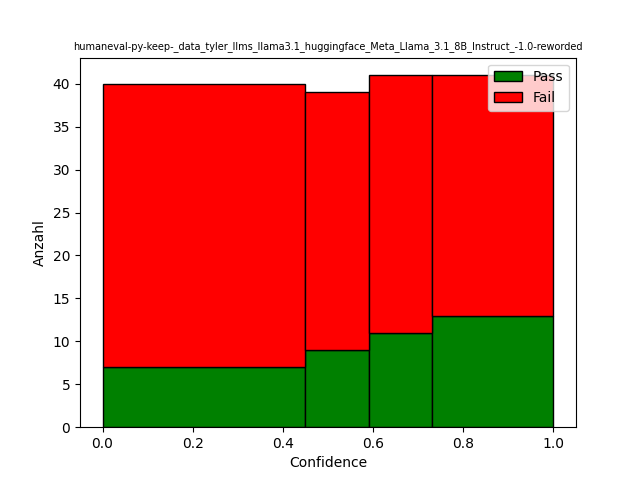
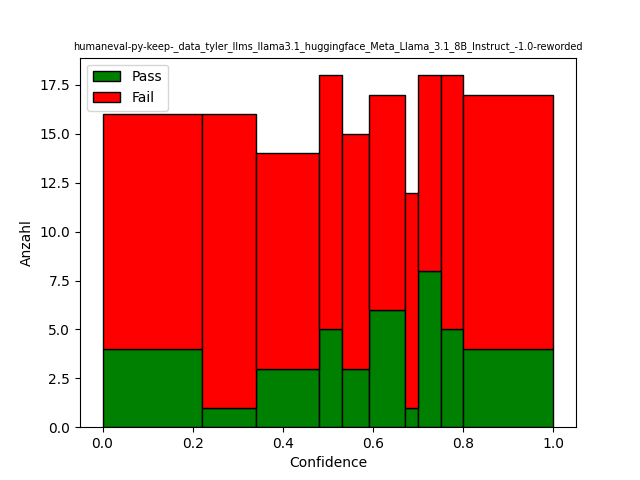
First implementation of Histogramm Binning, Changed quantil count in calculate_scores.py from 4 to 10

diff --git a/histogramm_binning.py b/histogramm_binning.py
@@ -7,10 +7,26 @@ from pathlib import Path
 import gzip
 from typing import Optional
 import os
+from sklearn.model_selection import train_test_split
+import matplotlib.pyplot as plt
 
 BASE_DIR    = "/data/stud/2025-MA-kuschnereit/masterarbeit/"
+CHART_DIR = BASE_DIR+"charts_multipl_e/"
 
 binning_type = 'linear'
+
+DEBUG = False
+
+def generate_calibration_bar_chart(y, x, path, run, width, bar_colors="blue"):
+    plt.title(run+' # Reliability chart', fontsize=7)
+    plt.plot(y, x, color=bar_colors)
+    plt.plot([0, 1], [0, 1], linestyle='--')
+    plt.xticks(np.arange(0, 1.1, 0.1))
+    plt.yticks(np.arange(0, 1.1, 0.1))
+    plt.xlabel('Confidence')
+    plt.ylabel('Correct')
+    plt.savefig(path)
+    plt.close()
 
 def gunzip_json(path: Path) -> Optional[dict]:
     """
@@ -54,6 +70,24 @@ def for_file(path: Path):
     }
 
 
+def create_unform_grid(m):
+    return np.round(np.arange(0.0, 1+(1/m), 1/m), 2)   
+
+
+def round_model_to_grid(probs, grid):
+    # Round model to the grid (assign values to bin edges)
+    bin_assignment = []    
+
+    for f_x in probs:             
+        bin_assignment.append(np.round(grid[np.argmin(np.abs(f_x - grid))], 2))         
+    
+    return np.array(bin_assignment)
+
+def calculate_correctnes_per_bin(probs, y, assignments, grid):
+    prob_correct = np.array([np.divide(len(probs[(assignments == i) & (y == 1)]), len(probs[(assignments == i)])) for i in grid])
+    prob_correct[np.isnan(prob_correct)] = 0
+    return prob_correct
+
 def main():
     parser = argparse.ArgumentParser()
     parser.add_argument(
@@ -82,9 +116,9 @@ def main():
         print(f"Temperature: {temperature}")
         print(f"Num Problems: {num_problems}")
 
-        pass_log_value_list = []
-        fail_log_value_list = []
-        prob_value_list = []
+        pass_probs = []
+        fail_probs = []
+        predicted_probs = []
         is_correct = []
 
         for r in results:
@@ -92,33 +126,55 @@ def main():
             cumulative_logprob = r["cumulative_logprob"]
             avg_prob = np.round(np.exp(cumulative_logprob / token_count), 2) 
 
-            prob_value_list.append(avg_prob)
+            predicted_probs.append(avg_prob)
             if r["c"] == 0:
-                fail_log_value_list.append(avg_prob)
+                fail_probs.append(avg_prob)
                 is_correct.append(0)
             if r["c"] == 1:
-                pass_log_value_list.append(avg_prob)
+                pass_probs.append(avg_prob)
                 is_correct.append(1)
 
-        prob_value_list     = np.array(prob_value_list)
-        pass_log_value_list = np.array(pass_log_value_list)
-        fail_log_value_list = np.array(fail_log_value_list)
+        predicted_probs     = np.array(predicted_probs)
+        pass_probs          = np.array(pass_probs)
+        fail_probs          = np.array(fail_probs)
         is_correct          = np.array(is_correct)
         correct_count = np.count_nonzero(is_correct == 1)
-        print(f"Korrekt: {correct_count}")
+        if DEBUG: print(f"Korrekt: {correct_count}") 
+
+        # Split in train and test
+        train_probs, test_probs, train_y, test_y = train_test_split(predicted_probs, is_correct, test_size=0.2)
+        if DEBUG: print(f"Training values: {train_probs}")
+        if DEBUG: print(f"Test values: {test_probs}")
 
         # uniform grid 1/m
-        m = 10
-        uniform_grid = np.arange(0.0, 1+(1/m), 1/m)         
-        bin_assignment = []         
-        
-        for f_x in prob_value_list:             
-            bin_assignment.append(np.argmin(np.abs(f_x - uniform_grid)))         
-            
-        print(bin_assignment)         
-        delta_p_f_ = 0         
-        exit()
+        uniform_grid = create_unform_grid(10)   
+        train_bin_assignments = round_model_to_grid(train_probs, uniform_grid)
 
+        # Calculated the mean correcteness of the assigned bins
+        if DEBUG: print(f"TRAIN Assigned Bins: {train_bin_assignments}")
+        train_correct_per_bin = calculate_correctnes_per_bin(train_probs, train_y, train_bin_assignments, uniform_grid)
+
+        if DEBUG: print(f"Uniform Grid: {uniform_grid}")
+        if DEBUG: print(f"TRAIN Correct per bin: {train_correct_per_bin}")     
+
+        # Calculate correcteness bias in the given bin
+        delta_p_f_ =  uniform_grid - train_correct_per_bin
+ 
+
+        if DEBUG: print(f"TEST Preditions: {test_probs}")    
+        # Test calibration
+        test_bin_assignment = round_model_to_grid(test_probs, uniform_grid)
+        if DEBUG: print(f"TEST Assigned Bins: {test_bin_assignment}")
+        test_correct_per_bin = calculate_correctnes_per_bin(test_probs, test_y, test_bin_assignment, uniform_grid)
+        if DEBUG: print(f"TEST Correct per bin: {test_correct_per_bin}")
+        if DEBUG: print(f"TRAIN Delta_p(f): {delta_p_f_}")  
+        f_dach = np.clip(test_correct_per_bin + delta_p_f_, 0, 1)
+        if DEBUG: print(f"TEST Corrected Values: {f_dach}")
+        if binning_type == 'linear':
+            chart_range = np.arange(0, 1.1, 0.1)
+            bar_width = 0.1
+
+        generate_calibration_bar_chart(chart_range, f_dach, CHART_DIR+run+"/histogramm_binninb_calibration_bar_chart_"+binning_type+".png", run, bar_width)
 
 
 if __name__ == "__main__":

diff --git a/calculate_scores.py b/calculate_scores.py
@@ -14,7 +14,7 @@ BASE_DIR    = "/data/stud/2025-MA-kuschnereit/masterarbeit/"
 CHART_DIR = BASE_DIR+"charts_multipl_e/"
 
 charts = True
-binning_type = 'linear' # other option is linear
+binning_type = 'quantil' # other option is linear
 
 def create_histogram(data, path, run, typ):
     fig, ax = plt.subplots()  
@@ -204,9 +204,15 @@ def main():
         
         if binning_type == 'quantil':
             bin_ranges = [0, 
-                          np.quantile(prob_value_list, 0.25),
-                          np.quantile(prob_value_list, 0.50),
-                          np.quantile(prob_value_list, 0.75), 
+                          np.quantile(prob_value_list, 0.1),
+                          np.quantile(prob_value_list, 0.2),
+                          np.quantile(prob_value_list, 0.3),
+                          np.quantile(prob_value_list, 0.4),
+                          np.quantile(prob_value_list, 0.5),
+                          np.quantile(prob_value_list, 0.6),
+                          np.quantile(prob_value_list, 0.7), 
+                          np.quantile(prob_value_list, 0.8),
+                          np.quantile(prob_value_list, 0.9),
                           1]
             bar_width = []
             
@@ -285,7 +291,7 @@ def main():
                 for x in total_bin_count_norm:
                     colors.append((0.0, 0.0, 1.0, x))
             else:
-                colors = ['tab:red', 'tab:blue', 'tab:green', 'tab:orange']
+                colors = ['tab:blue']
             generate_calibration_bar_chart(chart_range, P_correct, CHART_DIR+run+"/calibration_bar_chart_"+binning_type+".png", run, bar_width, colors)
             create_stacked_bar_plot(chart_range, np.array(correct_bin_count), fail_bin_count, CHART_DIR+run+"/Probabilities_"+binning_type+".png", run, bar_width)
 
